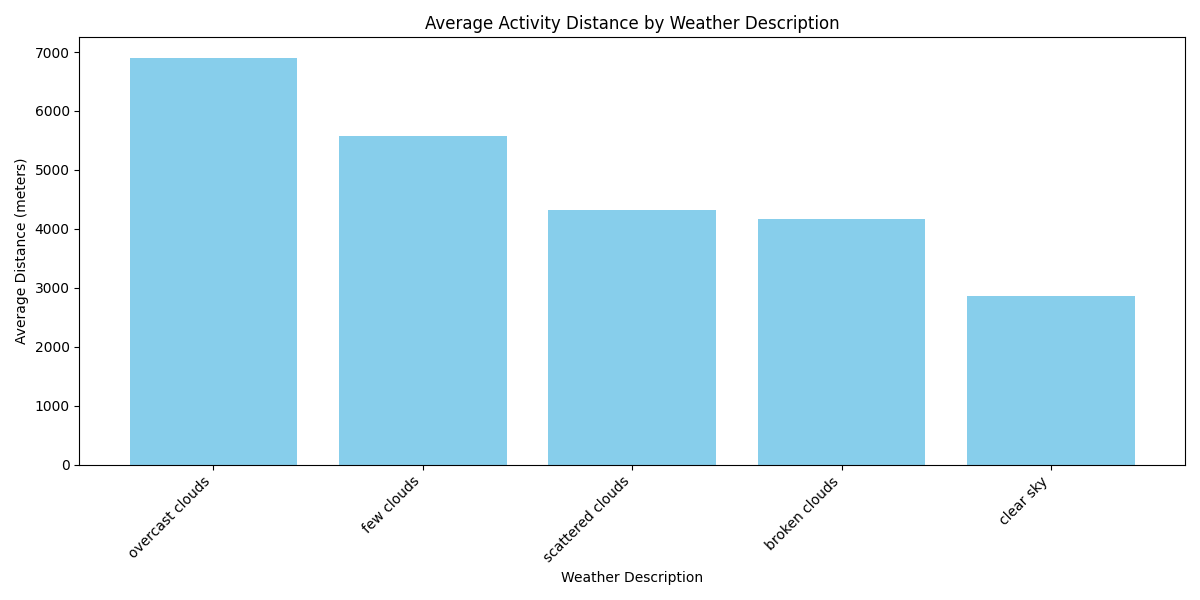
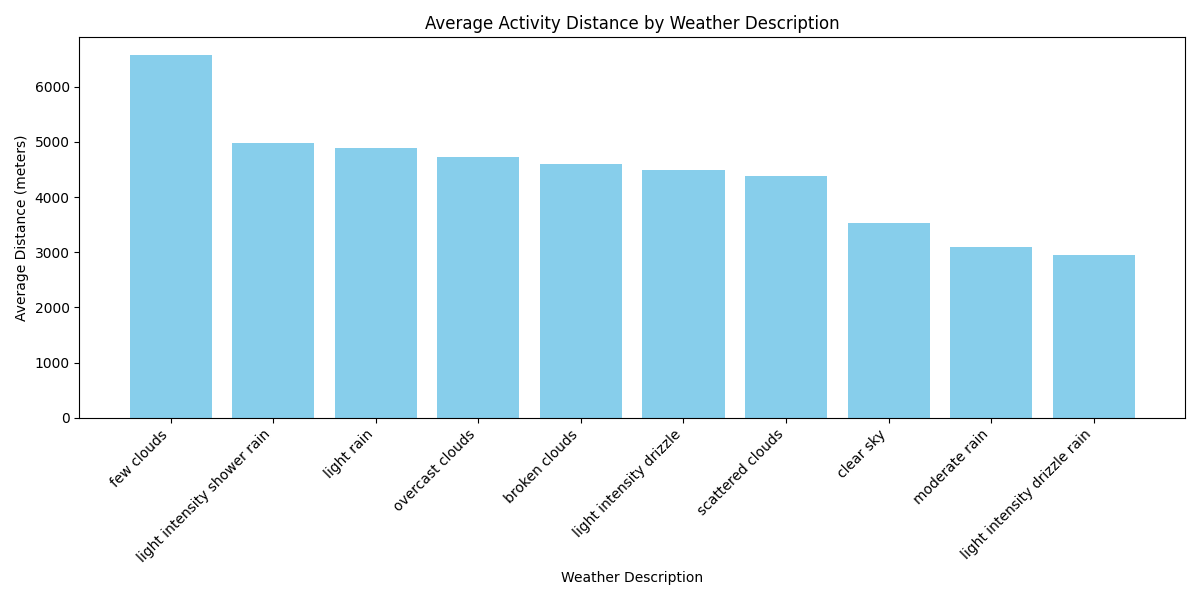
OneCall 3.0

diff --git a/weather.py b/weather.py
@@ -1,19 +1,19 @@
 import requests
 import sqlite3
 import os
-from flask import Flask, send_from_directory, render_template_string
+import time
 import matplotlib
 import matplotlib.pyplot as plt
+from flask import Flask, send_from_directory, render_template_string
 
 # Use a non-GUI backend for Matplotlib
 matplotlib.use('Agg')
 
-# As of December 5th 2024
-# OpenWeatherMap API Key (James' API Key - currently awaiting a response from OpenWeatherMap to extend historical weather data range)
-API_KEY = "84e21ea14bda415048a5852c8a6c9999"
+# Updated API Key
+API_KEY = "4d21ed7c97869390f4c195badb4c451c"
 
 # Historical Weather API URL
-HISTORICAL_URL = "https://history.openweathermap.org/data/2.5/history/city"
+HISTORICAL_URL = "https://api.openweathermap.org/data/3.0/onecall/timemachine"
 
 # Database file
 DB_FILE = 'activities.db'
@@ -48,35 +48,29 @@ def fetch_historical_weather(lat, lon, timestamp):
     params = {
         'lat': lat,
         'lon': lon,
-        'type': 'hour',
-        'start': int(timestamp),  # Ensure timestamp is an integer
-        'cnt': 1,  # Number of timestamps to retrieve
+        'dt': int(timestamp),
         'appid': API_KEY,
         'units': 'metric'
     }
-    
     try:
         response = requests.get(HISTORICAL_URL, params=params)
-        response.raise_for_status()  # Raise an exception for bad status codes
-        
+        response.raise_for_status()
         return response.json()
     except requests.RequestException as e:
         print(f"Error fetching historical weather data: {e}")
-        print(f"Response content: {response.text if 'response' in locals() else 'No response'}")
         return None
 
 def store_weather_data(activity_id, weather_data):
     """Store weather data into the SQLite database."""
-    if not weather_data or 'list' not in weather_data or not weather_data['list']:
-        print(f"No weather data available for activity {activity_id}")
+    if not weather_data or 'data' not in weather_data:
+        print(f"No valid weather data available for activity {activity_id}")
         return
 
-    conn = sqlite3.connect(DB_FILE)
-    cursor = conn.cursor()
-
     try:
-        current_weather = weather_data['list'][0]
-        
+        current_weather = weather_data['data'][0]
+        conn = sqlite3.connect(DB_FILE)
+        cursor = conn.cursor()
+
         cursor.execute('''
             INSERT OR IGNORE INTO weather (
                 activity_id, temperature, humidity, wind_speed, 
@@ -84,20 +78,24 @@ def store_weather_data(activity_id, weather_data):
             ) VALUES (?, ?, ?, ?, ?, ?, ?, ?)
         ''', (
             activity_id,
-            current_weather.get('main', {}).get('temp'),
-            current_weather.get('main', {}).get('humidity'),
-            current_weather.get('wind', {}).get('speed'),
+            current_weather.get('temp'),
+            current_weather.get('humidity'),
+            current_weather.get('wind_speed'),
             current_weather.get('weather', [{}])[0].get('main', 'Unknown'),
             current_weather.get('weather', [{}])[0].get('description', 'Unknown'),
-            weather_data.get('city', {}).get('timezone', 0),
-            0
+            weather_data.get('timezone', 'Unknown'),
+            weather_data.get('timezone_offset', 0)
         ))
+
         conn.commit()
         print(f"Weather data for activity {activity_id} stored successfully.")
-    except Exception as e:
+    except sqlite3.Error as e:
         print(f"Error storing weather data for activity {activity_id}: {e}")
+    except KeyError as e:
+        print(f"Missing expected data in weather response: {e}")
     finally:
-        conn.close()
+        if conn:
+            conn.close()
 
 def process_activities_weather():
     """Fetch historical weather data for each activity and store it in the database."""

diff --git a/interface.py b/interface.py
@@ -6,14 +6,13 @@ import matplotlib
 import matplotlib.pyplot as plt
 from flask import Flask, request, redirect, render_template_string, send_from_directory, flash
 
-
 matplotlib.use('Agg')
 
 CLIENT_ID = "141007"
 CLIENT_SECRET = "052da5de5f06be8d811655a36f081cfad12ce338"
 REDIRECT_URI = "http://127.0.0.1:5000/callback"
 
-API_KEY = "84e21ea14bda415048a5852c8a6c9999"
+API_KEY = "4d21ed7c97869390f4c195badb4c451c"
 
 DB_FILE = 'activities.db'
 
@@ -166,17 +165,14 @@ def fetch_and_store_activities(athlete_id, access_token):
         page += 1
 
 def fetch_historical_weather(lat, lon, timestamp):
-    historical_url = "https://history.openweathermap.org/data/2.5/history/city"
+    historical_url = "https://api.openweathermap.org/data/3.0/onecall/timemachine"
     params = {
         'lat': lat,
         'lon': lon,
-        'type': 'hour',
-        'start': int(timestamp),
-        'cnt': 1,
+        'dt': int(timestamp),
         'appid': API_KEY,
         'units': 'metric'
     }
-    
     try:
         response = requests.get(historical_url, params=params)
         response.raise_for_status()
@@ -186,16 +182,15 @@ def fetch_historical_weather(lat, lon, timestamp):
         return None
 
 def store_weather_data(activity_id, weather_data):
-    if not weather_data or 'list' not in weather_data or not weather_data['list']:
-        print(f"No weather data available for activity {activity_id}")
+    if not weather_data or 'data' not in weather_data:
+        print(f"No valid weather data available for activity {activity_id}")
         return
 
-    conn = sqlite3.connect(DB_FILE)
-    cursor = conn.cursor()
-
     try:
-        current_weather = weather_data['list'][0]
-        
+        current_weather = weather_data['data'][0]
+        conn = sqlite3.connect(DB_FILE)
+        cursor = conn.cursor()
+
         cursor.execute('''
             INSERT OR IGNORE INTO weather (
                 activity_id, temperature, humidity, wind_speed, 
@@ -203,19 +198,23 @@ def store_weather_data(activity_id, weather_data):
             ) VALUES (?, ?, ?, ?, ?, ?, ?, ?)
         ''', (
             activity_id,
-            current_weather.get('main', {}).get('temp'),
-            current_weather.get('main', {}).get('humidity'),
-            current_weather.get('wind', {}).get('speed'),
+            current_weather.get('temp'),
+            current_weather.get('humidity'),
+            current_weather.get('wind_speed'),
             current_weather.get('weather', [{}])[0].get('main', 'Unknown'),
             current_weather.get('weather', [{}])[0].get('description', 'Unknown'),
-            weather_data.get('city', {}).get('timezone', 0),
-            0
+            weather_data.get('timezone', 'Unknown'),
+            weather_data.get('timezone_offset', 0)
         ))
+
         conn.commit()
-    except Exception as e:
+    except sqlite3.Error as e:
         print(f"Error storing weather data for activity {activity_id}: {e}")
+    except KeyError as e:
+        print(f"Missing expected data in weather response: {e}")
     finally:
-        conn.close()
+        if conn:
+            conn.close()
 
 def process_activities_weather():
     """Fetch historical weather data for each activity and store it in the database."""

diff --git a/README.md b/README.md
@@ -1,5 +1,7 @@
 # SI 206 Final Project
 
+[Report Link](https://docs.google.com/document/d/1Idu9cLUwzLCPCFJIh_unOOtj5RFnMbef7SegGVh-mBo/edit?usp=sharing)
+
 XC Timekeepers - Using Strava API & OpenWeatherAPI to determine how/if weather conditions affect exercise.
 
 This is an interactive study. Strava have authorised 999 athletes to connect to our database and further contribute to the different graphs we're generating.
